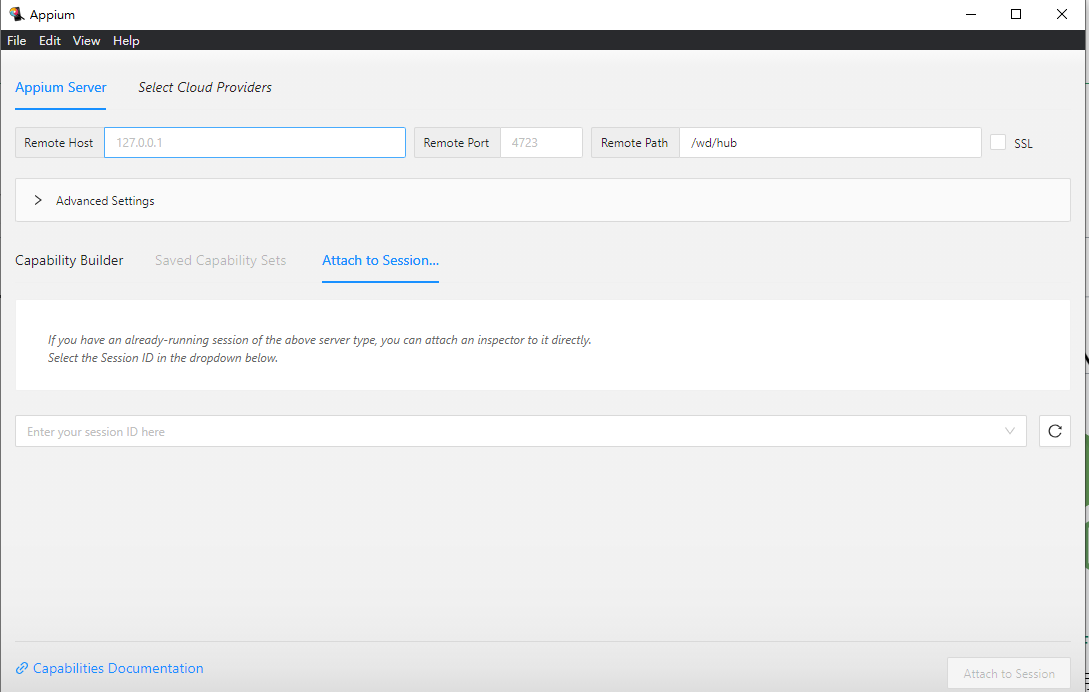
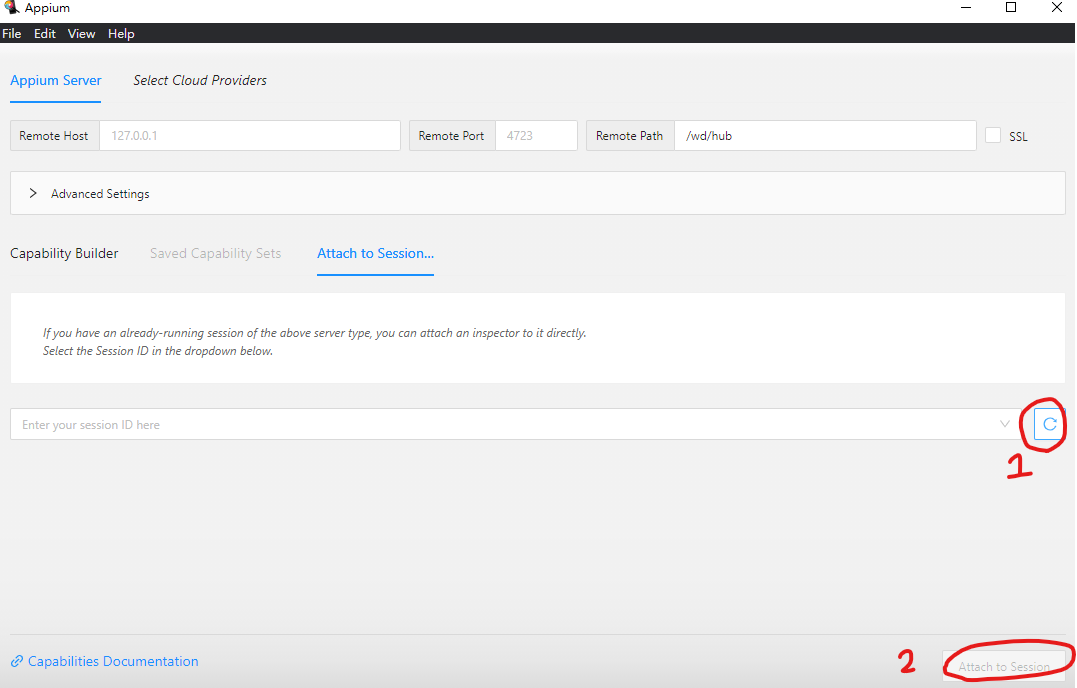
edit testing/readme.md

diff --git a/testing/readme.md b/testing/readme.md
@@ -28,7 +28,10 @@
 ## Writing testing script
 - You can locate the element in the app you want to test through [Appium Inspector](https://github.com/appium/appium-inspector/releases)
   - Since Appium Inspector use new version of Appium client library, your capability spec will be wrap into appium custom data type, which is not acceptable in appium version == v1.19.1, so you need to first create a session to your appium server and attach to that session.
-    - In the other words, you can't use "Capability Builder" to create a session, you need to use "Attach to Session..." instead 
+    - In the other words, you can't use "Capability Builder" to create a session, you need to use "Attach to Session..." instead
+    - You can run the code below(which is the same as line 25~32 in usecase_testing.py) to create a session to Appium server
+      - ![img.png](create_session_code.png)
+    - Then, press the reload bottom on Appium Inspector and you'll see a session, select it, and press **Attach to Session** 
     - ![img.png](Appium_Inspector.png)
 - Once you locate the element, you can use the action provide by selenium to reach it.
   - In my code, I use xpath to locate the element, which is not preferable, instead, if element name or automationID exist, you should use those.  
